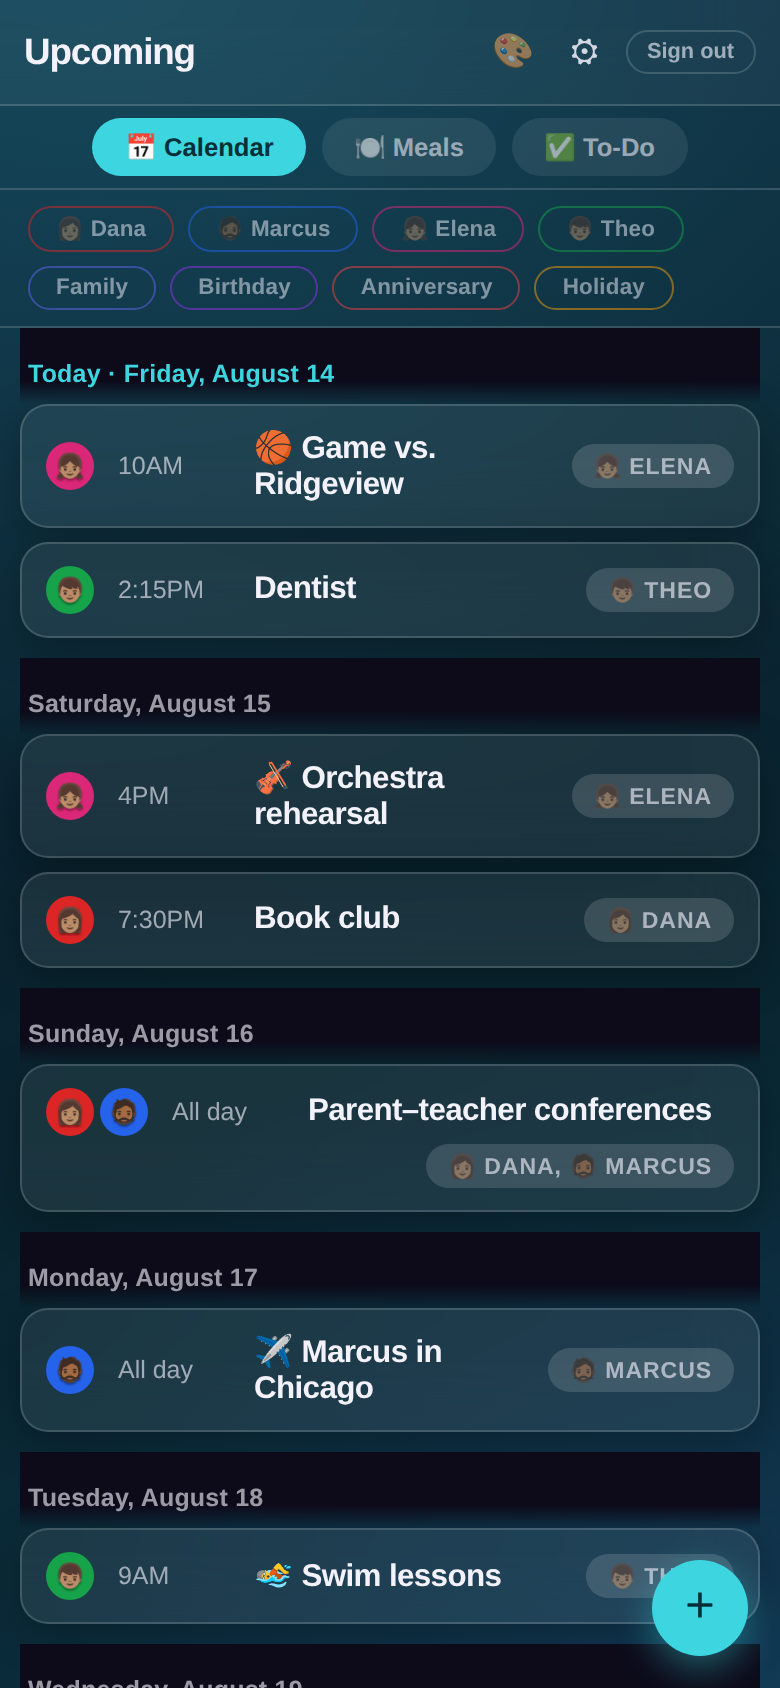
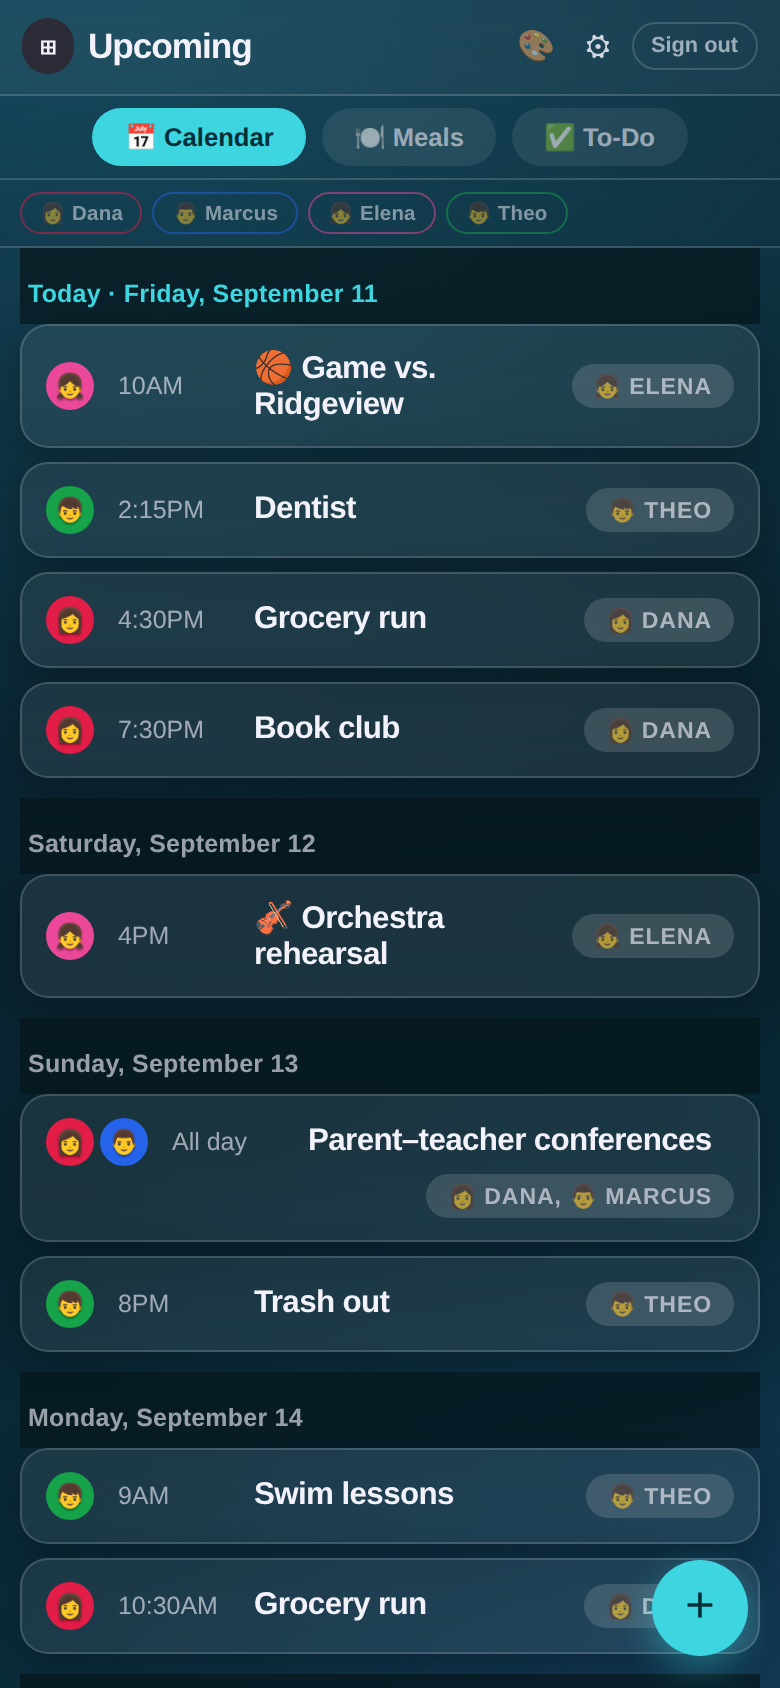
docs: show the phone month view in the README
Adds mobile-month.png and refreshes mobile-agenda.png, which was taken
before the sticky-header fix and still shows the dark band. Same fictional
household (the Robinsons) as the existing shots so the set stays coherent.

Claude-Session: https://claude.ai/code/session_012oW32AfzUN4nCKmZ5D6HDL

diff --git a/README.md b/README.md
@@ -17,12 +17,20 @@ password, your data stays on your own disk.
 <td align="center"><em>The week's meals</em></td>
 </tr>
 <tr>
+<td width="50%"><img src="docs/screenshots/mobile-month.png" alt="Month view on a phone"></td>
 <td width="50%"><img src="docs/screenshots/mobile-agenda.png" alt="Agenda view on a phone"></td>
-<td width="50%"><img src="docs/screenshots/settings.png" alt="Settings"></td>
 </tr>
 <tr>
-<td align="center"><em>Agenda view on a phone</em></td>
+<td align="center"><em>Month view on a phone — swipe to change month, tap a day to open it</em></td>
+<td align="center"><em>…or the agenda, if a rolling list suits you better</em></td>
+</tr>
+<tr>
+<td width="50%"><img src="docs/screenshots/settings.png" alt="Settings"></td>
+<td width="50%"></td>
+</tr>
+<tr>
 <td align="center"><em>Settings, including seven themes</em></td>
+<td></td>
 </tr>
 </table>
 
@@ -161,6 +169,8 @@ yours to run, and your family's schedule never leaves your machine.
 
 - Month grid / agenda views, recurring events (including custom RRULE import), drag-free
   quick add
+- A month view built for phones — the whole month as coloured dots, swipe to page,
+  tap a day to open it in full; the agenda is a tap away if you prefer a rolling list
 - Meal planner, and a combined chore/to-do list with repeats, a per-device
   "show me mine" filter, a Skip button for a repeating chore the kids missed
   (moves to the next occurrence, no payout), and **chore earnings** — give a
@@ -175,7 +185,7 @@ yours to run, and your family's schedule never leaves your machine.
 - Optional public (no-password) read-only calendar
 - Push notifications (per-device, no app install) plus an ntfy/Discord/Slack webhook fallback
 - Weather (ZIP-based, via the free Open-Meteo + Zippopotam.us APIs — no API key)
-- Seven themes, PWA-installable, mobile-friendly agenda view
+- Seven themes, PWA-installable, and designed to work on a phone rather than merely fit on one
 
 ## Support
 
